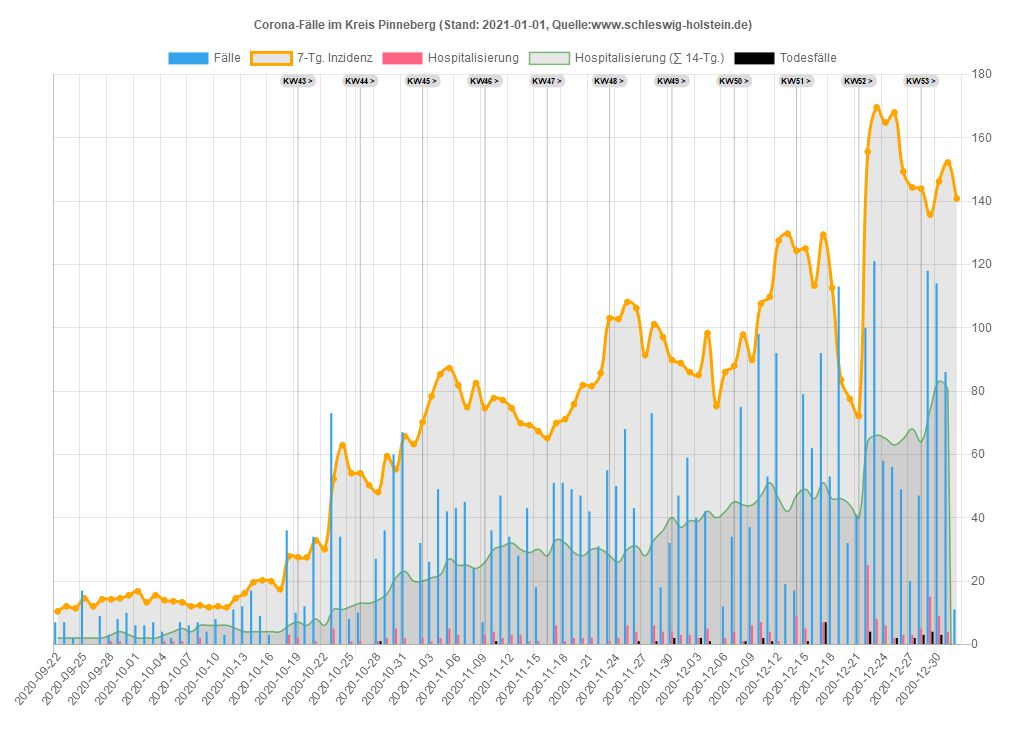
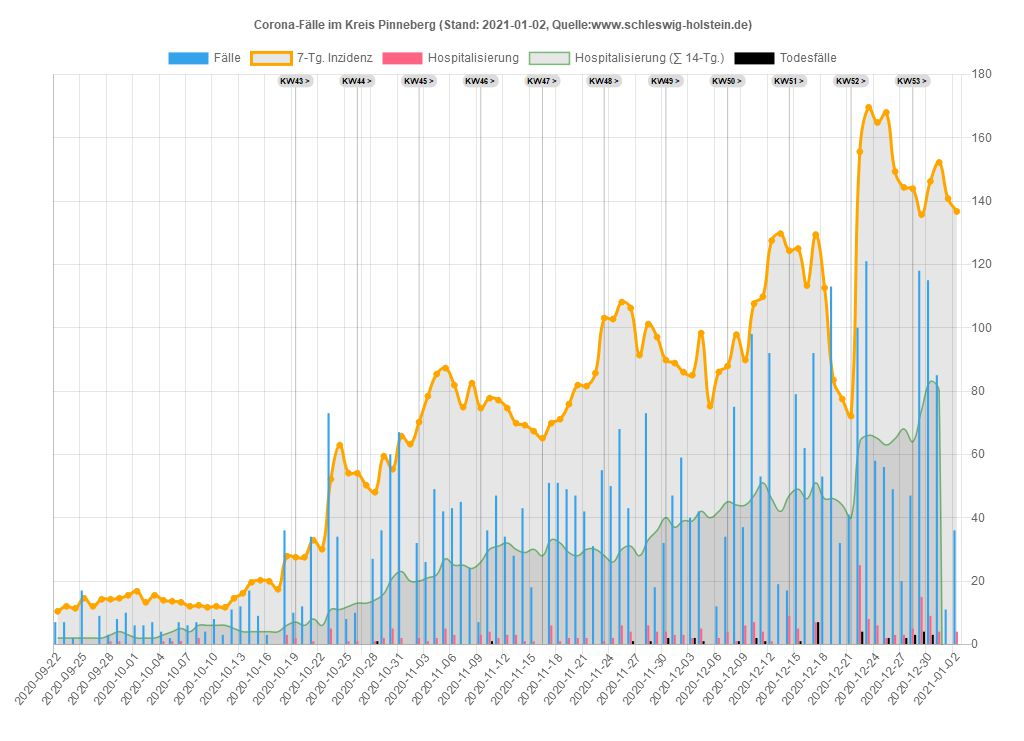
02.01.2021 21:16:47,24

Changed region(s): [[0.0625, 0.0931, 0.9375, 0.9622]]

diff --git a/sh/Data_SH.js b/sh/Data_SH.js
@@ -1,34 +1,34 @@
 var chdata={
-labels: ["2020-09-22","2020-09-23","2020-09-24","2020-09-25","2020-09-26","2020-09-27","2020-09-28","2020-09-29","2020-09-30","2020-10-01","2020-10-02","2020-10-03","2020-10-04","2020-10-05","2020-10-06","2020-10-07","2020-10-08","2020-10-09","2020-10-10","2020-10-11","2020-10-12","2020-10-13","2020-10-14","2020-10-15","2020-10-16","2020-10-17","2020-10-18","2020-10-19","2020-10-20","2020-10-21","2020-10-22","2020-10-23","2020-10-24","2020-10-25","2020-10-26","2020-10-27","2020-10-28","2020-10-29","2020-10-30","2020-10-31","2020-11-01","2020-11-02","2020-11-03","2020-11-04","2020-11-05","2020-11-06","2020-11-07","2020-11-08","2020-11-09","2020-11-10","2020-11-11","2020-11-12","2020-11-13","2020-11-14","2020-11-15","2020-11-16","2020-11-17","2020-11-18","2020-11-19","2020-11-20","2020-11-21","2020-11-22","2020-11-23","2020-11-24","2020-11-25","2020-11-26","2020-11-27","2020-11-28","2020-11-29","2020-11-30","2020-12-01","2020-12-02","2020-12-03","2020-12-04","2020-12-05","2020-12-06","2020-12-07","2020-12-08","2020-12-09","2020-12-10","2020-12-11","2020-12-12","2020-12-13","2020-12-14","2020-12-15","2020-12-16","2020-12-17","2020-12-18","2020-12-19","2020-12-20","2020-12-21","2020-12-22","2020-12-23","2020-12-24","2020-12-25","2020-12-26","2020-12-27","2020-12-28","2020-12-29","2020-12-30","2020-12-31","2021-01-01"],
+labels: ["2020-09-22","2020-09-23","2020-09-24","2020-09-25","2020-09-26","2020-09-27","2020-09-28","2020-09-29","2020-09-30","2020-10-01","2020-10-02","2020-10-03","2020-10-04","2020-10-05","2020-10-06","2020-10-07","2020-10-08","2020-10-09","2020-10-10","2020-10-11","2020-10-12","2020-10-13","2020-10-14","2020-10-15","2020-10-16","2020-10-17","2020-10-18","2020-10-19","2020-10-20","2020-10-21","2020-10-22","2020-10-23","2020-10-24","2020-10-25","2020-10-26","2020-10-27","2020-10-28","2020-10-29","2020-10-30","2020-10-31","2020-11-01","2020-11-02","2020-11-03","2020-11-04","2020-11-05","2020-11-06","2020-11-07","2020-11-08","2020-11-09","2020-11-10","2020-11-11","2020-11-12","2020-11-13","2020-11-14","2020-11-15","2020-11-16","2020-11-17","2020-11-18","2020-11-19","2020-11-20","2020-11-21","2020-11-22","2020-11-23","2020-11-24","2020-11-25","2020-11-26","2020-11-27","2020-11-28","2020-11-29","2020-11-30","2020-12-01","2020-12-02","2020-12-03","2020-12-04","2020-12-05","2020-12-06","2020-12-07","2020-12-08","2020-12-09","2020-12-10","2020-12-11","2020-12-12","2020-12-13","2020-12-14","2020-12-15","2020-12-16","2020-12-17","2020-12-18","2020-12-19","2020-12-20","2020-12-21","2020-12-22","2020-12-23","2020-12-24","2020-12-25","2020-12-26","2020-12-27","2020-12-28","2020-12-29","2020-12-30","2020-12-31","2021-01-01","2021-01-02"],
 datasets: [
 {label: 'Fälle',
 type: 'bar',
 backgroundColor: window.chartColors.blue,
-data: [38,42,63,53,15,15,38,48,49,27,50,16,24,39,54,45,79,54,26,25,65,65,65,55,90,26,88,163,111,160,136,236,142,115,164,164,280,215,313,265,161,142,236,262,220,274,233,177,215,252,247,192,296,158,161,100,294,208,264,250,153,121,145,251,256,225,180,219,71,81,244,240,245,318,234,154,183,314,297,529,384,472,140,241,486,322,602,508,431,157,211,776,722,306,229,229,202,260,483,528,340,-25021]},
+data: [38,42,63,53,15,15,38,48,49,27,50,16,24,39,54,45,79,54,26,25,65,65,65,55,90,26,88,163,111,160,136,236,142,115,164,164,280,215,313,265,161,142,236,262,220,274,233,177,215,252,247,192,296,158,161,100,294,208,264,250,153,121,145,251,256,225,180,219,71,81,244,240,245,318,234,154,183,314,297,529,384,472,140,241,486,322,602,508,431,157,211,776,722,306,229,229,202,260,483,528,340,-25021,290]},
 {label: '7-Tg. Inzidenz',
 type: 'line',
 pointBackgroundColor: 'orange',
 borderColor: 'orange',
-data: [7.23197027,7.88629139,8.74724023,9.40156135,9.33268544,9.16049567,9.09161977,9.4359993,9.67706498,8.43729865,8.33398478,8.36842274,8.67836432,8.71280227,8.91943,8.78167818,10.5724518,10.7102036,11.0545831,11.0890211,11.9844079,12.3632254,13.0519844,12.2254735,13.4652399,13.4652399,15.634831,19.0097504,20.5938963,23.8655019,26.6549761,31.6829174,35.67772,36.6075447,36.6419827,38.4671942,42.5997487,45.320347,47.9720694,52.2079377,53.7920836,53.0344486,55.5139813,54.8940981,55.0662879,53.7232077,52.6211932,53.1722004,55.6861711,56.2371783,55.720609,54.7563463,55.5139813,52.9311348,52.3801275,48.4197628,49.8661569,48.5230767,51.0026094,49.4184635,49.2462737,47.8687556,49.4184635,47.9376315,49.5906533,48.2475731,45.8369163,48.1098213,46.3879236,44.1838945,43.9428289,43.3918216,44.0805807,48.8330183,49.3495876,52.2079377,55.720609,58.1312658,60.0942291,69.874608,72.1475129,80.3437459,79.8616145,81.8590158,87.7823439,88.6432927,91.1572633,95.4275696,94.0156135,94.6010587,93.5679201,103.554927,117.330108,107.136474,97.5282848,90.5718181,92.121526,93.8089858,83.7186653,77.0377023,78.2085928,-791.349737]},
+data: [7.23197027,7.88629139,8.74724023,9.40156135,9.33268544,9.16049567,9.09161977,9.4359993,9.67706498,8.43729865,8.33398478,8.36842274,8.67836432,8.71280227,8.91943,8.78167818,10.5724518,10.7102036,11.0545831,11.0890211,11.9844079,12.3632254,13.0519844,12.2254735,13.4652399,13.4652399,15.634831,19.0097504,20.5938963,23.8655019,26.6549761,31.6829174,35.67772,36.6075447,36.6419827,38.4671942,42.5997487,45.320347,47.9720694,52.2079377,53.7920836,53.0344486,55.5139813,54.8940981,55.0662879,53.7232077,52.6211932,53.1722004,55.6861711,56.2371783,55.720609,54.7563463,55.5139813,52.9311348,52.3801275,48.4197628,49.8661569,48.5230767,51.0026094,49.4184635,49.2462737,47.8687556,49.4184635,47.9376315,49.5906533,48.2475731,45.8369163,48.1098213,46.3879236,44.1838945,43.9428289,43.3918216,44.0805807,48.8330183,49.3495876,52.2079377,55.720609,58.1312658,60.0942291,69.874608,72.1475129,80.3437459,79.8616145,81.8590158,87.7823439,88.6432927,91.1572633,95.4275696,94.0156135,94.6010587,93.5679201,103.554927,117.330108,107.136474,97.5282848,90.5718181,92.121526,93.8089858,83.7186653,77.0377023,78.2085928,-791.349737,-789.249022]},
 {label: 'Hospitalisierung',
 type: 'bar',
 backgroundColor: window.chartColors.red,
-data: [1,2,7,1,0,0,2,1,3,1,1,0,4,3,1,1,4,2,0,3,5,1,1,2,4,0,9,10,8,9,12,7,5,6,7,7,11,10,11,6,3,9,19,20,15,15,5,7,13,15,21,13,17,8,17,13,23,10,15,9,7,7,13,16,26,19,12,14,15,10,12,8,10,14,3,5,24,13,26,20,14,12,6,26,27,16,20,18,8,13,13,43,35,23,17,21,26,25,46,33,33,-1783]},
+data: [1,2,7,1,0,0,2,1,3,1,1,0,4,3,1,1,4,2,0,3,5,1,1,2,4,0,9,10,8,9,12,7,5,6,7,7,11,10,11,6,3,9,19,20,15,15,5,7,13,15,21,13,17,8,17,13,23,10,15,9,7,7,13,16,26,19,12,14,15,10,12,8,10,14,3,5,24,13,26,20,14,12,6,26,27,16,20,18,8,13,13,43,35,23,17,21,26,25,46,33,33,-1783,20]},
 {label: 'Hosp. (∑ 14-Tg.)',
 type: 'line',
 hidden: true,
 borderColor: 'rgba(0,255,0,0.5)',
 borderWidth: 1.5,
 pointRadius: 0,
-data: [12,12,20,22,22,22,22,23,23,21,22,21,24,26,26,25,22,23,23,26,29,29,27,28,31,31,36,43,50,58,66,71,76,79,81,87,97,105,112,118,112,111,122,133,136,144,144,145,151,159,169,172,178,180,194,198,202,192,192,186,188,188,188,189,194,200,195,201,199,196,185,183,178,183,179,177,188,185,185,186,188,186,177,193,208,216,226,230,235,243,232,262,271,274,277,286,306,305,324,341,354,-1447]},
+data: [12,12,20,22,22,22,22,23,23,21,22,21,24,26,26,25,22,23,23,26,29,29,27,28,31,31,36,43,50,58,66,71,76,79,81,87,97,105,112,118,112,111,122,133,136,144,144,145,151,159,169,172,178,180,194,198,202,192,192,186,188,188,188,189,194,200,195,201,199,196,185,183,178,183,179,177,188,185,185,186,188,186,177,193,208,216,226,230,235,243,232,262,271,274,277,286,306,305,324,341,354,-1447,-1435]},
 {label: 'Aktuell im Krankenhaus',
 type: 'line',
 pointBackgroundColor: 'green',
 borderColor: 'green',
-data: [6,6,6,6,6,6,6,11,11,11,11,14,14,15,15,14,14,14,13,13,18,18,18,21,24,24,24,24,31,31,31,31,51,51,58,58,58,58,58,58,58,94,110,114,119,118,124,120,126,116,113,119,112,116,116,148,145,151,141,141,141,141,155,142,122,113,118,118,118,124,114,110,109,114,114,114,131,122,128,132,133,133,133,177,181,194,201,212,236,250,275,271,267,262,262,262,262,309,318,322,346,346]},
+data: [6,6,6,6,6,6,6,11,11,11,11,14,14,15,15,14,14,14,13,13,18,18,18,21,24,24,24,24,31,31,31,31,51,51,58,58,58,58,58,58,58,94,110,114,119,118,124,120,126,116,113,119,112,116,116,148,145,151,141,141,141,141,155,142,122,113,118,118,118,124,114,110,109,114,114,114,131,122,128,132,133,133,133,177,181,194,201,212,236,250,275,271,267,262,262,262,262,309,318,322,346,346,376]},
 {label: 'Todesfälle',
 type: 'bar',
 backgroundColor: 'black',
-data: [0,0,0,0,0,0,0,1,0,0,0,0,0,0,0,0,0,0,0,0,0,1,0,0,0,0,0,0,0,0,1,0,0,3,0,0,3,4,1,0,2,6,7,2,2,6,0,1,4,3,5,0,5,1,3,5,0,2,2,2,1,0,3,4,1,3,3,1,4,2,3,1,4,1,0,1,4,2,5,7,7,1,2,2,6,7,11,3,2,0,9,15,4,3,4,7,10,18,17,14,2,-427]},
+data: [0,0,0,0,0,0,0,1,0,0,0,0,0,0,0,0,0,0,0,0,0,1,0,0,0,0,0,0,0,0,1,0,0,3,0,0,3,4,1,0,2,6,7,2,2,6,0,1,4,3,5,0,5,1,3,5,0,2,2,2,1,0,3,4,1,3,3,1,4,2,3,1,4,1,0,1,4,2,5,7,7,1,2,2,6,7,11,3,2,0,9,15,4,3,4,7,10,18,17,14,2,-427,0]},
 ]};
 

diff --git a/sh/Data_SH_Alter.js b/sh/Data_SH_Alter.js
@@ -112,7 +112,8 @@ var chdata={
 				{x: '2020-12-29', y: 'Alle', v: 83.6497894, casesum: 2429},{x: '2020-12-29', y: '00-09', v: 29.214481, casesum: 75},{x: '2020-12-29', y: '10-19', v: 56.157996, casesum: 155},{x: '2020-12-29', y: '20-29', v: 111.263213, casesum: 356},{x: '2020-12-29', y: '30-39', v: 94.3202545, casesum: 317},{x: '2020-12-29', y: '40-49', v: 87.3825797, casesum: 308},{x: '2020-12-29', y: '50-59', v: 75.4943975, casesum: 374},{x: '2020-12-29', y: '60-69', v: 69.3202762, casesum: 252},{x: '2020-12-29', y: '70-79', v: 56.7699903, casesum: 168},{x: '2020-12-29', y: '80-89', v: 158.799387, casesum: 284},{x: '2020-12-29', y: '90+', v: 485.841199, casesum: 140},
 				{x: '2020-12-30', y: 'Alle', v: 77.278768, casesum: 2244},{x: '2020-12-30', y: '00-09', v: 26.4877961, casesum: 68},{x: '2020-12-30', y: '10-19', v: 51.0856609, casesum: 141},{x: '2020-12-30', y: '20-29', v: 105.325007, casesum: 337},{x: '2020-12-30', y: '30-39', v: 85.6915876, casesum: 288},{x: '2020-12-30', y: '40-49', v: 77.7364507, casesum: 274},{x: '2020-12-30', y: '50-59', v: 73.273974, casesum: 363},{x: '2020-12-30', y: '60-69', v: 62.7183451, casesum: 228},{x: '2020-12-30', y: '70-79', v: 56.7699903, casesum: 168},{x: '2020-12-30', y: '80-89', v: 142.583957, casesum: 255},{x: '2020-12-30', y: '90+', v: 423.375902, casesum: 122},
 				{x: '2020-12-31', y: 'Alle', v: 78.5529723, casesum: 2281},{x: '2020-12-31', y: '00-09', v: 25.3192169, casesum: 65},{x: '2020-12-31', y: '10-19', v: 48.911803, casesum: 135},{x: '2020-12-31', y: '20-29', v: 109.700527, casesum: 351},{x: '2020-12-31', y: '30-39', v: 91.6423923, casesum: 308},{x: '2020-12-31', y: '40-49', v: 77.1690314, casesum: 272},{x: '2020-12-31', y: '50-59', v: 77.3111076, casesum: 383},{x: '2020-12-31', y: '60-69', v: 63.268506, casesum: 230},{x: '2020-12-31', y: '70-79', v: 61.8387394, casesum: 183},{x: '2020-12-31', y: '80-89', v: 134.196665, casesum: 240},{x: '2020-12-31', y: '90+', v: 395.613548, casesum: 114},
-				{x: '2021-01-01', y: 'Alle', v: 74.2482281, casesum: 2156},{x: '2021-01-01', y: '00-09', v: 24.5401641, casesum: 63},{x: '2021-01-01', y: '10-19', v: 46.7379451, casesum: 129},{x: '2021-01-01', y: '20-29', v: 103.137248, casesum: 330},{x: '2021-01-01', y: '30-39', v: 84.5014267, casesum: 284},{x: '2021-01-01', y: '40-49', v: 79.1549991, casesum: 279},{x: '2021-01-01', y: '50-59', v: 71.2554072, casesum: 353},{x: '2021-01-01', y: '60-69', v: 58.0419773, casesum: 211},{x: '2021-01-01', y: '70-79', v: 58.1216567, casesum: 172},{x: '2021-01-01', y: '80-89', v: 126.927679, casesum: 227},{x: '2021-01-01', y: '90+', v: 374.791782, casesum: 108}
+				{x: '2021-01-01', y: 'Alle', v: 74.2482281, casesum: 2156},{x: '2021-01-01', y: '00-09', v: 24.5401641, casesum: 63},{x: '2021-01-01', y: '10-19', v: 46.7379451, casesum: 129},{x: '2021-01-01', y: '20-29', v: 103.137248, casesum: 330},{x: '2021-01-01', y: '30-39', v: 84.5014267, casesum: 284},{x: '2021-01-01', y: '40-49', v: 79.1549991, casesum: 279},{x: '2021-01-01', y: '50-59', v: 71.2554072, casesum: 353},{x: '2021-01-01', y: '60-69', v: 58.0419773, casesum: 211},{x: '2021-01-01', y: '70-79', v: 58.1216567, casesum: 172},{x: '2021-01-01', y: '80-89', v: 126.927679, casesum: 227},{x: '2021-01-01', y: '90+', v: 374.791782, casesum: 108},
+				{x: '2021-01-02', y: 'Alle', v: 79.6549868, casesum: 2313},{x: '2021-01-02', y: '00-09', v: 26.8773226, casesum: 69},{x: '2021-01-02', y: '10-19', v: 53.6218284, casesum: 148},{x: '2021-01-02', y: '20-29', v: 107.825304, casesum: 345},{x: '2021-01-02', y: '30-39', v: 90.1546912, casesum: 303},{x: '2021-01-02', y: '40-49', v: 84.8291926, casesum: 299},{x: '2021-01-02', y: '50-59', v: 71.2554072, casesum: 353},{x: '2021-01-02', y: '60-69', v: 61.0678623, casesum: 222},{x: '2021-01-02', y: '70-79', v: 64.5420723, casesum: 191},{x: '2021-01-02', y: '80-89', v: 145.379721, casesum: 260},{x: '2021-01-02', y: '90+', v: 426.846197, casesum: 123}
 			],
 			backgroundColor: function(context) {
 				return inzColor(context.dataset.data[context.dataIndex].v)
@@ -120,7 +121,7 @@ var chdata={
 			width: function(context) {
 				const a = context.chart.chartArea
 				if (!a) return 0
-				return (a.right - a.left) / 109.5
+				return (a.right - a.left) / 110.5
 			},
 			height: function(context) {
 				const a = context.chart.chartArea
@@ -132,7 +133,7 @@ var chdata={
 	options: {
 		legend: { display: false },
 		scales: {
-			xAxes: [{type: 'category', labels: ["2020-09-15","2020-09-16","2020-09-17","2020-09-18","2020-09-19","2020-09-20","2020-09-21","2020-09-22","2020-09-23","2020-09-24","2020-09-25","2020-09-26","2020-09-27","2020-09-28","2020-09-29","2020-09-30","2020-10-01","2020-10-02","2020-10-03","2020-10-04","2020-10-05","2020-10-06","2020-10-07","2020-10-08","2020-10-09","2020-10-10","2020-10-11","2020-10-12","2020-10-13","2020-10-14","2020-10-15","2020-10-16","2020-10-17","2020-10-18","2020-10-19","2020-10-20","2020-10-21","2020-10-22","2020-10-23","2020-10-24","2020-10-25","2020-10-26","2020-10-27","2020-10-28","2020-10-29","2020-10-30","2020-10-31","2020-11-01","2020-11-02","2020-11-03","2020-11-04","2020-11-05","2020-11-06","2020-11-07","2020-11-08","2020-11-09","2020-11-10","2020-11-11","2020-11-12","2020-11-13","2020-11-14","2020-11-15","2020-11-16","2020-11-17","2020-11-18","2020-11-19","2020-11-20","2020-11-21","2020-11-22","2020-11-23","2020-11-24","2020-11-25","2020-11-26","2020-11-27","2020-11-28","2020-11-29","2020-11-30","2020-12-01","2020-12-02","2020-12-03","2020-12-04","2020-12-05","2020-12-06","2020-12-07","2020-12-08","2020-12-09","2020-12-10","2020-12-11","2020-12-12","2020-12-13","2020-12-14","2020-12-15","2020-12-16","2020-12-17","2020-12-18","2020-12-19","2020-12-20","2020-12-21","2020-12-22","2020-12-23","2020-12-24","2020-12-25","2020-12-26","2020-12-27","2020-12-28","2020-12-29","2020-12-30","2020-12-31","2021-01-01",], ticks: {display: true},gridlines:{display:false}}],
+			xAxes: [{type: 'category', labels: ["2020-09-15","2020-09-16","2020-09-17","2020-09-18","2020-09-19","2020-09-20","2020-09-21","2020-09-22","2020-09-23","2020-09-24","2020-09-25","2020-09-26","2020-09-27","2020-09-28","2020-09-29","2020-09-30","2020-10-01","2020-10-02","2020-10-03","2020-10-04","2020-10-05","2020-10-06","2020-10-07","2020-10-08","2020-10-09","2020-10-10","2020-10-11","2020-10-12","2020-10-13","2020-10-14","2020-10-15","2020-10-16","2020-10-17","2020-10-18","2020-10-19","2020-10-20","2020-10-21","2020-10-22","2020-10-23","2020-10-24","2020-10-25","2020-10-26","2020-10-27","2020-10-28","2020-10-29","2020-10-30","2020-10-31","2020-11-01","2020-11-02","2020-11-03","2020-11-04","2020-11-05","2020-11-06","2020-11-07","2020-11-08","2020-11-09","2020-11-10","2020-11-11","2020-11-12","2020-11-13","2020-11-14","2020-11-15","2020-11-16","2020-11-17","2020-11-18","2020-11-19","2020-11-20","2020-11-21","2020-11-22","2020-11-23","2020-11-24","2020-11-25","2020-11-26","2020-11-27","2020-11-28","2020-11-29","2020-11-30","2020-12-01","2020-12-02","2020-12-03","2020-12-04","2020-12-05","2020-12-06","2020-12-07","2020-12-08","2020-12-09","2020-12-10","2020-12-11","2020-12-12","2020-12-13","2020-12-14","2020-12-15","2020-12-16","2020-12-17","2020-12-18","2020-12-19","2020-12-20","2020-12-21","2020-12-22","2020-12-23","2020-12-24","2020-12-25","2020-12-26","2020-12-27","2020-12-28","2020-12-29","2020-12-30","2020-12-31","2021-01-01","2021-01-02",], ticks: {display: true},gridlines:{display:false}}],
 			yAxes: [{type: 'category', labels: ["Alle","00-09","10-19","20-29","30-39","40-49","50-59","60-69","70-79","80-89","90+"], offset:true, ticks: {display: true},gridlines:{display:false}}],
 		},
 	}

diff --git a/sh/Kreis_PI.js b/sh/Kreis_PI.js
@@ -1,33 +1,33 @@
 var chdata={
-labels: ["2020-09-22","2020-09-23","2020-09-24","2020-09-25","2020-09-26","2020-09-27","2020-09-28","2020-09-29","2020-09-30","2020-10-01","2020-10-02","2020-10-03","2020-10-04","2020-10-05","2020-10-06","2020-10-07","2020-10-08","2020-10-09","2020-10-10","2020-10-11","2020-10-12","2020-10-13","2020-10-14","2020-10-15","2020-10-16","2020-10-17","2020-10-18","2020-10-19","2020-10-20","2020-10-21","2020-10-22","2020-10-23","2020-10-24","2020-10-25","2020-10-26","2020-10-27","2020-10-28","2020-10-29","2020-10-30","2020-10-31","2020-11-01","2020-11-02","2020-11-03","2020-11-04","2020-11-05","2020-11-06","2020-11-07","2020-11-08","2020-11-09","2020-11-10","2020-11-11","2020-11-12","2020-11-13","2020-11-14","2020-11-15","2020-11-16","2020-11-17","2020-11-18","2020-11-19","2020-11-20","2020-11-21","2020-11-22","2020-11-23","2020-11-24","2020-11-25","2020-11-26","2020-11-27","2020-11-28","2020-11-29","2020-11-30","2020-12-01","2020-12-02","2020-12-03","2020-12-04","2020-12-05","2020-12-06","2020-12-07","2020-12-08","2020-12-09","2020-12-10","2020-12-11","2020-12-12","2020-12-13","2020-12-14","2020-12-15","2020-12-16","2020-12-17","2020-12-18","2020-12-19","2020-12-20","2020-12-21","2020-12-22","2020-12-23","2020-12-24","2020-12-25","2020-12-26","2020-12-27","2020-12-28","2020-12-29","2020-12-30","2020-12-31","2021-01-01"],
+labels: ["2020-09-22","2020-09-23","2020-09-24","2020-09-25","2020-09-26","2020-09-27","2020-09-28","2020-09-29","2020-09-30","2020-10-01","2020-10-02","2020-10-03","2020-10-04","2020-10-05","2020-10-06","2020-10-07","2020-10-08","2020-10-09","2020-10-10","2020-10-11","2020-10-12","2020-10-13","2020-10-14","2020-10-15","2020-10-16","2020-10-17","2020-10-18","2020-10-19","2020-10-20","2020-10-21","2020-10-22","2020-10-23","2020-10-24","2020-10-25","2020-10-26","2020-10-27","2020-10-28","2020-10-29","2020-10-30","2020-10-31","2020-11-01","2020-11-02","2020-11-03","2020-11-04","2020-11-05","2020-11-06","2020-11-07","2020-11-08","2020-11-09","2020-11-10","2020-11-11","2020-11-12","2020-11-13","2020-11-14","2020-11-15","2020-11-16","2020-11-17","2020-11-18","2020-11-19","2020-11-20","2020-11-21","2020-11-22","2020-11-23","2020-11-24","2020-11-25","2020-11-26","2020-11-27","2020-11-28","2020-11-29","2020-11-30","2020-12-01","2020-12-02","2020-12-03","2020-12-04","2020-12-05","2020-12-06","2020-12-07","2020-12-08","2020-12-09","2020-12-10","2020-12-11","2020-12-12","2020-12-13","2020-12-14","2020-12-15","2020-12-16","2020-12-17","2020-12-18","2020-12-19","2020-12-20","2020-12-21","2020-12-22","2020-12-23","2020-12-24","2020-12-25","2020-12-26","2020-12-27","2020-12-28","2020-12-29","2020-12-30","2020-12-31","2021-01-01","2021-01-02"],
 datasets: [
 {label: 'Fälle',
 type: 'bar',
 backgroundColor: window.chartColors.blue,
 yAxisID: 'first-y-axis',
-data: [7,7,2,17,0,9,3,8,10,6,6,7,4,2,7,6,7,4,8,3,11,12,17,9,3,0,36,10,12,34,0,73,34,8,10,0,27,36,60,67,0,32,26,49,42,43,45,24,7,36,47,34,28,43,18,0,51,51,49,47,42,31,55,50,68,43,0,73,18,32,47,59,40,42,0,12,34,75,37,98,53,92,19,17,79,62,92,53,113,32,41,100,121,58,56,49,20,47,118,114,86,11]},
+data: [7,7,2,17,0,9,3,8,10,6,6,7,4,2,7,6,7,4,8,3,11,12,17,9,3,0,36,10,12,34,0,73,34,8,10,0,27,36,60,67,0,32,26,49,42,43,45,24,7,36,47,34,28,43,18,0,51,51,49,47,42,31,55,50,68,43,0,73,18,32,47,59,40,42,0,12,34,75,37,98,53,92,19,17,79,62,92,53,113,32,41,100,121,58,56,49,20,47,118,115,85,11,36]},
 {label: '7-Tg. Inzidenz',
 type: 'line',
 pointBackgroundColor: 'orange',
 borderColor: 'orange',
 yAxisID: 'first-y-axis',
-data: [10.4300994,12.0104175,11.3782902,14.5389264,12.0104175,14.2228628,14.2228628,14.5389264,15.4871172,16.7513717,13.2746719,15.4871172,13.9067992,13.5907355,13.2746719,12.0104175,12.3264811,11.6943538,12.0104175,11.6943538,14.5389264,16.1192445,19.5959443,20.2280715,19.9120079,17.383499,27.8135983,27.4975347,27.4975347,32.8706162,30.0260436,52.1504969,62.8966598,54.0468786,54.0468786,50.2541151,48.0416698,59.41996,55.311133,65.7412324,63.2127235,70.166123,78.3837771,85.3371767,87.2335584,81.8604769,74.9070773,82.4926041,74.5910137,77.7516499,77.1195226,74.5910137,69.8500594,69.2179322,67.3215505,65.1091052,69.8500594,71.1143139,75.8552681,81.8604769,81.5444133,85.6532403,103.036739,102.720676,108.093757,106.197375,91.3423854,101.140358,97.0315305,89.7620673,88.8138765,85.9693039,85.021113,98.295785,75.2231409,86.0,87.9,97.8,89.8,107.6,109.8,127.5,129.7,124.3,125.0,113.3,129.4,112.6,83.5,77.5,72.1,155.6,169.6,164.8,168.0,149.3,144.3,143.9,135.7,146.2,152.2,140.8]},
+data: [10.4300994,12.0104175,11.3782902,14.5389264,12.0104175,14.2228628,14.2228628,14.5389264,15.4871172,16.7513717,13.2746719,15.4871172,13.9067992,13.5907355,13.2746719,12.0104175,12.3264811,11.6943538,12.0104175,11.6943538,14.5389264,16.1192445,19.5959443,20.2280715,19.9120079,17.383499,27.8135983,27.4975347,27.4975347,32.8706162,30.0260436,52.1504969,62.8966598,54.0468786,54.0468786,50.2541151,48.0416698,59.41996,55.311133,65.7412324,63.2127235,70.166123,78.3837771,85.3371767,87.2335584,81.8604769,74.9070773,82.4926041,74.5910137,77.7516499,77.1195226,74.5910137,69.8500594,69.2179322,67.3215505,65.1091052,69.8500594,71.1143139,75.8552681,81.8604769,81.5444133,85.6532403,103.036739,102.720676,108.093757,106.197375,91.3423854,101.140358,97.0315305,89.7620673,88.8138765,85.9693039,85.021113,98.295785,75.2231409,86.0,87.9,97.8,89.8,107.6,109.8,127.5,129.7,124.3,125.0,113.3,129.4,112.6,83.5,77.5,72.1,155.6,169.6,164.8,168.0,149.3,144.3,143.9,135.7,146.2,152.2,140.8,136.7]},
 {label: 'Hospitalisierung',
 type: 'bar',
 backgroundColor: window.chartColors.red,
 yAxisID: 'first-y-axis',
-data: [0,0,0,0,0,0,1,1,0,0,0,0,1,1,1,-1,2,0,0,0,0,0,0,0,0,0,3,2,0,1,0,5,0,1,1,0,1,2,5,2,0,2,1,2,5,3,0,0,3,4,2,3,3,1,1,0,6,1,2,2,2,0,1,2,6,4,0,6,4,4,3,3,2,5,0,2,4,1,6,7,4,1,0,9,5,0,7,0,0,0,0,25,8,6,2,3,3,5,15,9,4,-381]},
+data: [0,0,0,0,0,0,1,1,0,0,0,0,1,1,1,-1,2,0,0,0,0,0,0,0,0,0,3,2,0,1,0,5,0,1,1,0,1,2,5,2,0,2,1,2,5,3,0,0,3,4,2,3,3,1,1,0,6,1,2,2,2,0,1,2,6,4,0,6,4,4,3,3,2,5,0,2,4,1,6,7,4,1,0,9,5,0,7,0,0,0,0,25,8,6,2,3,3,5,15,9,4,-381,4]},
 {label: 'Hospitalisierung (∑ 14-Tg.)',
 type: 'line',
 pointRadius: 0,
 borderColor: 'rgba(0,128,0,0.5)',
 borderWidth: 1.5,
 yAxisID: 'first-y-axis',
-data: [2,2,2,2,2,2,3,4,3,2,2,2,3,4,5,4,6,6,6,6,5,4,4,4,4,4,6,7,6,8,6,11,11,12,13,13,14,16,21,23,20,20,21,22,27,25,25,24,26,30,31,32,30,29,30,28,33,32,29,28,30,30,28,26,30,31,28,33,36,40,37,39,39,42,40,42,45,44,44,47,51,46,42,47,49,46,51,46,46,44,40,64,66,65,63,65,68,64,74,83,80,-301]},
+data: [2,2,2,2,2,2,3,4,3,2,2,2,3,4,5,4,6,6,6,6,5,4,4,4,4,4,6,7,6,8,6,11,11,12,13,13,14,16,21,23,20,20,21,22,27,25,25,24,26,30,31,32,30,29,30,28,33,32,29,28,30,30,28,26,30,31,28,33,36,40,37,39,39,42,40,42,45,44,44,47,51,46,42,47,49,46,51,46,46,44,40,64,66,65,63,65,68,64,74,83,80,-301,-297]},
 {label: 'Todesfälle',
 type: 'bar',
 backgroundColor: 'black',
 yAxisID: 'first-y-axis',
-data: [0,0,0,0,0,0,0,0,0,0,0,0,0,0,0,0,0,0,0,0,0,0,0,0,0,0,0,0,0,0,0,0,0,0,0,0,1,0,0,0,0,0,0,0,0,0,0,0,0,1,0,0,0,0,0,0,0,0,0,0,0,0,0,0,0,1,0,1,0,2,0,0,2,1,0,0,0,1,0,2,1,0,0,0,1,0,7,0,0,0,0,4,0,0,2,0,2,3,4,3,0,-86]},
+data: [0,0,0,0,0,0,0,0,0,0,0,0,0,0,0,0,0,0,0,0,0,0,0,0,0,0,0,0,0,0,0,0,0,0,0,0,1,0,0,0,0,0,0,0,0,0,0,0,0,1,0,0,0,0,0,0,0,0,0,0,0,0,0,0,0,1,0,1,0,2,0,0,2,1,0,0,0,1,0,2,1,0,0,0,1,0,7,0,0,0,0,4,0,0,2,0,2,3,4,3,0,-86,0]},
 ]};
 

diff --git a/sh/index_sh_alter.html b/sh/index_sh_alter.html
@@ -5,7 +5,7 @@
 <meta property="og:image" content="index_sh_alter.jpg" />
 <meta property="og:type" content="website" />
 <meta property="og:locale" content="de_DE" />
-<meta property="og:updated_time" content="2021-01-02T20:51:42+01:00" />
+<meta property="og:updated_time" content="2021-01-02T21:16:47+01:00" />
 <title>Altersverteilung der Corona-Fälle in Schleswig-Holstein</title>
 <link rel="stylesheet" href="../css/style.css" media="screen" type="text/css">
 <link rel="stylesheet" media="screen" href="Chart.min.css"> 

diff --git a/sh/index_pi_alter.html b/sh/index_pi_alter.html
@@ -5,7 +5,7 @@
 <meta property="og:image" content="index_pi_alter.jpg" />
 <meta property="og:type" content="website" />
 <meta property="og:locale" content="de_DE" />
-<meta property="og:updated_time" content="2021-01-02T20:51:42+01:00" />
+<meta property="og:updated_time" content="2021-01-02T21:16:47+01:00" />
 <title>Altersverteilung der Corona-Fälle im Kreis Pinneberg</title>
 <link rel="stylesheet" href="../css/style.css" media="screen" type="text/css">
 <link rel="stylesheet" media="screen" href="Chart.min.css"> 

diff --git a/sh/index.html b/sh/index.html
@@ -5,7 +5,7 @@
 <meta property="og:image" content="index.jpg" />
 <meta property="og:type" content="website" />
 <meta property="og:locale" content="de_DE" />
-<meta property="og:updated_time" content="2021-01-02T20:51:42+01:00" />
+<meta property="og:updated_time" content="2021-01-02T21:16:47+01:00" />
 <title>Corona-Fälle im Kreis Pinneberg</title>
 <link rel="stylesheet" href="../css/style.css" media="screen" type="text/css">
 <link rel="stylesheet" media="screen" href="Chart.min.css"> 
